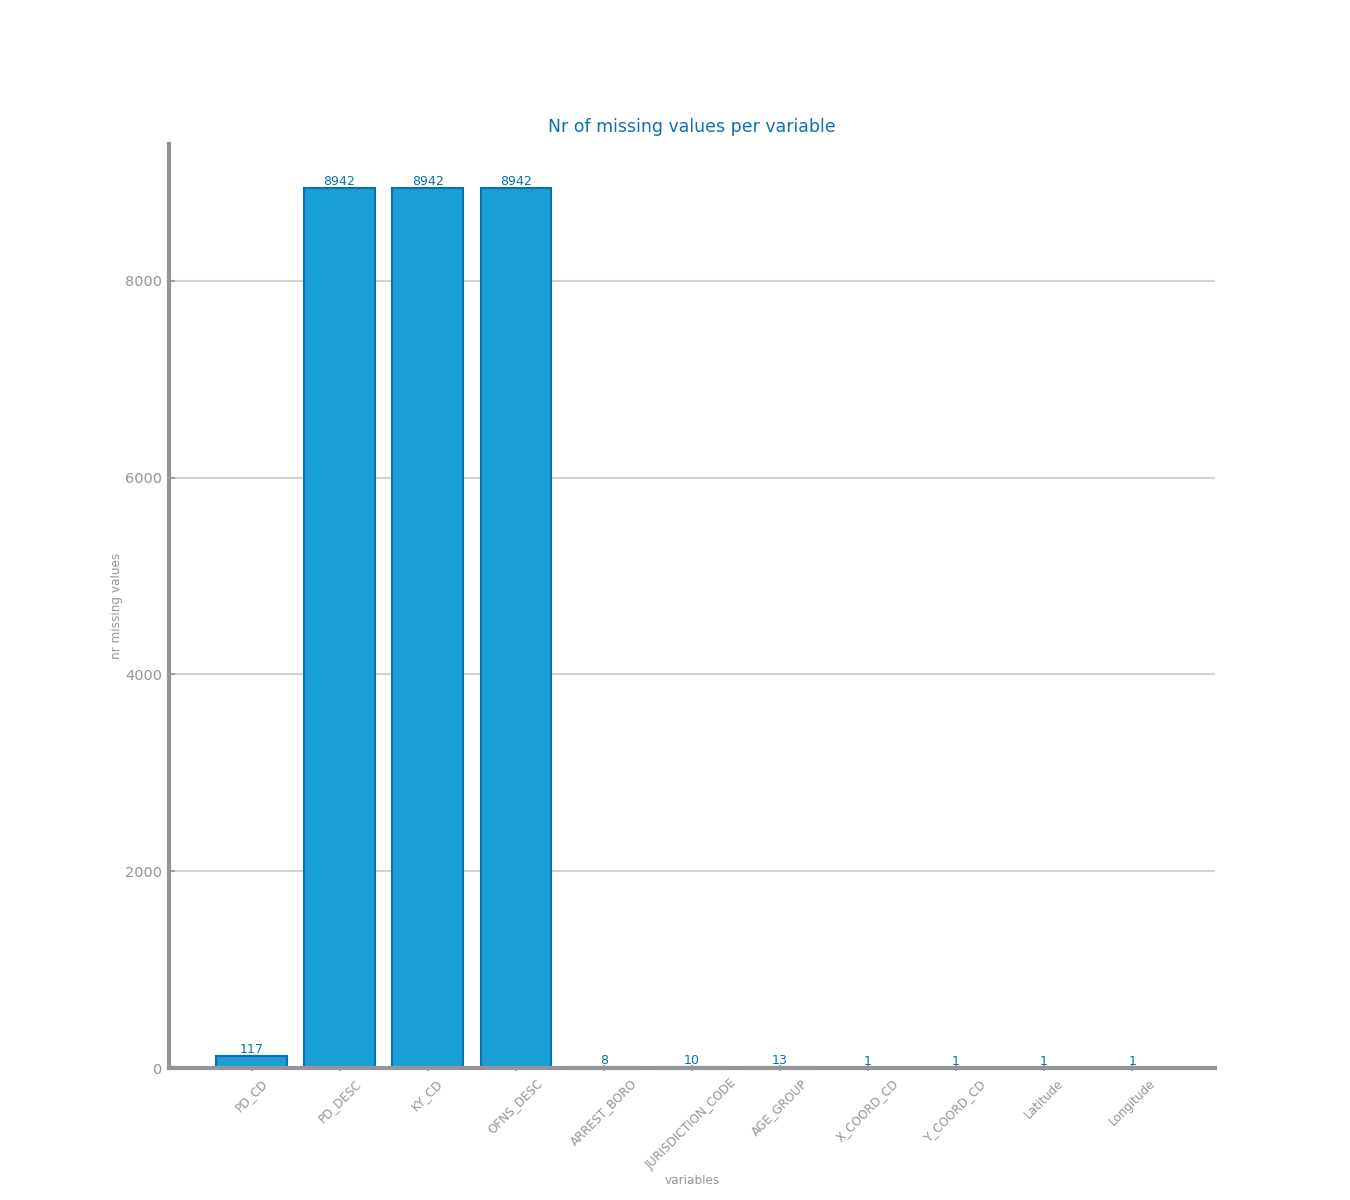
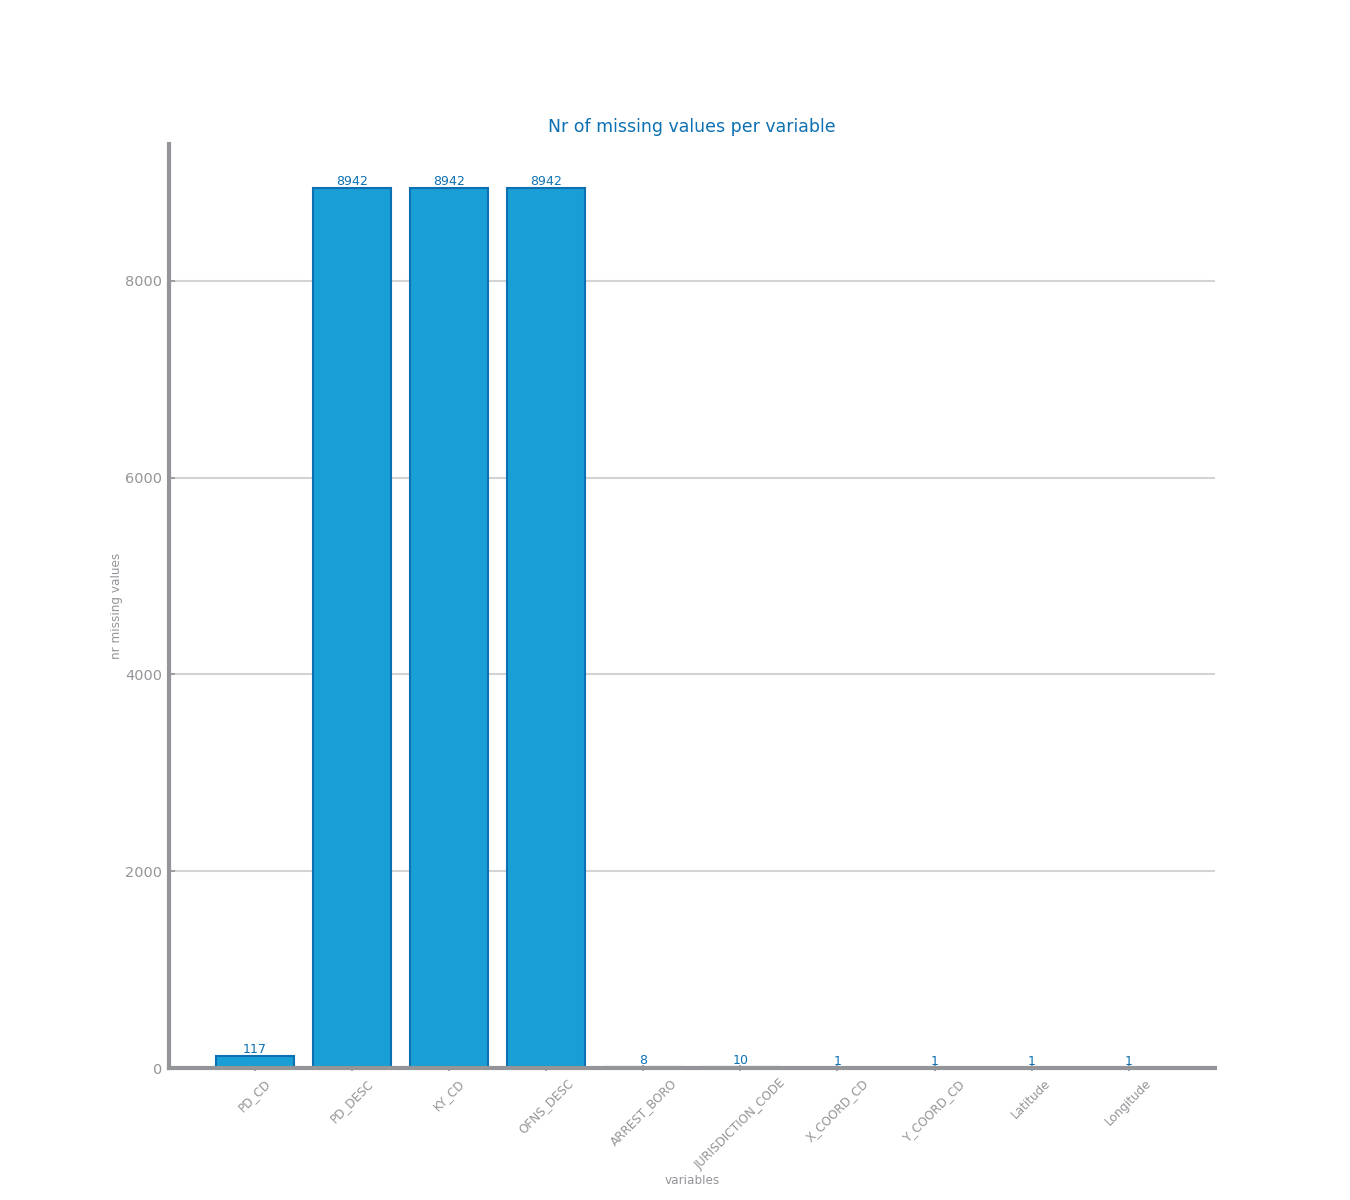
'Cleaning Age Group'

diff --git a/classes/DataProcessing.py b/classes/DataProcessing.py
@@ -9,6 +9,15 @@ class DataProcessing:
         self.data = self.data_loader.data
         self.target = self.data_loader.target
 
+    def group_AGE_GROUP(self):
+        """
+        Group the AGE_GROUP outliers into 'UNKNOWN'.
+        """
+        # Define valid AGE_GROUP values
+        valid_age_groups = {'<18', '18-24', '25-44', '45-64', '65+'}
+        # Replace outliers with 'UNKNOWN'
+        self.data['AGE_GROUP'] = self.data['AGE_GROUP'].where(self.data['AGE_GROUP'].isin(valid_age_groups), 'UNKNOWN')
+
     def _encode_ARREST_DATE(self):
         """Encode the ARREST_DATE variable"""
         # Convert ARREST_DATE to datetime format (assuming the format is mm/dd/yyyy)
@@ -59,15 +68,9 @@ class DataProcessing:
         self.data['ARREST_BORO'] = self.data['ARREST_BORO'].map({'M': 1, 'B': 2, 'Q': 3, 'K': 4, 'S': 5})
 
     def _encode_AGE_GROUP(self):
-        """
-        Encodes the age group variable, mapping specific groups to integers
-        and assigning 'unknown' to all other values.
-        """
-        # Mapping for known age groups
-        age_group_mapping = {'<18': 1, '18-24': 2, '25-44': 3, '45-64': 4, '65+': 5}
 
-        # Map known age groups and set others as 'unknown' (e.g., 0)
-        self.data['AGE_GROUP'] = self.data['AGE_GROUP'].map(age_group_mapping).fillna(0).astype(int)
+        age_group_mapping = {'UNKNOWN': 0, '<18': 1, '18-24': 2, '25-44': 3, '45-64': 4, '65+': 5}
+        self.data['AGE_GROUP'] = self.data['AGE_GROUP'].map(age_group_mapping)
 
     def _encode_PERP_SEX(self):
         # Encode the perpetrator's sex variable

diff --git a/main.py b/main.py
@@ -18,6 +18,11 @@ print(data_loader2.data.head())
 
 # %% 1- Data Profiling
 
+data_processing1 = DataProcessing(data_loader1)
+data_processing2 = DataProcessing(data_loader2)
+
+data_processing1.group_AGE_GROUP()
+
 # Data Visualization
 data_profiling1 = DataProfiling(data_loader1)
 data_profiling2 = DataProfiling(data_loader2)
@@ -35,10 +40,10 @@ data_profiling2 = DataProfiling(data_loader2)
 # data_profiling2.plot_global_boxplots()
 # data_profiling1.plot_single_variable_boxplots()
 # data_profiling2.plot_single_variable_boxplots()
-data_profiling1.plot_histograms()
-data_profiling2.plot_histograms()
-data_profiling1.plot_histograms_distribution()
-data_profiling2.plot_histograms_distribution()
+# data_profiling1.plot_histograms()
+# data_profiling2.plot_histograms()
+# data_profiling1.plot_histograms_distribution()
+# data_profiling2.plot_histograms_distribution()
 # data_profiling1.plot_outlier_comparison()
 # data_profiling2.plot_outlier_comparison()
 # data_profiling1.plot_class_distribution()
@@ -59,13 +64,11 @@ data_profiling2.plot_histograms_distribution()
 # data_profiling2.plot_sparsity_analysis_per_class()
 
 # Data Encoding of NY Arrests
-data_processing1 = DataProcessing(data_loader1)
 data_processing1.encode_NY_ARRESTS()
 # Save the encoded data
 data_loader1.data.to_csv("data/class_ny_arrests_encoded.csv", index=False)
 
 # Data Correlation
-# data_profiling1 = DataProfiling(data_loader1)
 # data_profiling1.plot_correlation_analysis()
 # data_profiling2.plot_correlation_analysis()
 

diff --git a/classes/DataProfiling.py b/classes/DataProfiling.py
@@ -210,7 +210,7 @@ class DataProfiling:
         else:
             print("There are no symbolic variables.")
 
-    def compute_known_distributions(self, x_values: list) -> dict:
+    def _compute_known_distributions(self, x_values: list) -> dict:
         distributions = dict()
         # Gaussian
         mean, sigma = norm.fit(x_values)
@@ -228,7 +228,7 @@ class DataProfiling:
     def histogram_with_distributions(self, ax: Axes, series: Series, var: str):
         values: list = series.sort_values().to_list()
         ax.hist(values, bins=20, density=True, alpha=0.6, label="Data")
-        distributions: dict = self.compute_known_distributions(values)
+        distributions: dict = self._compute_known_distributions(values)
         for label, dist in distributions.items():
             ax.plot(values, dist, label=label)
         ax.set_title(f"Best fit for {var}")
